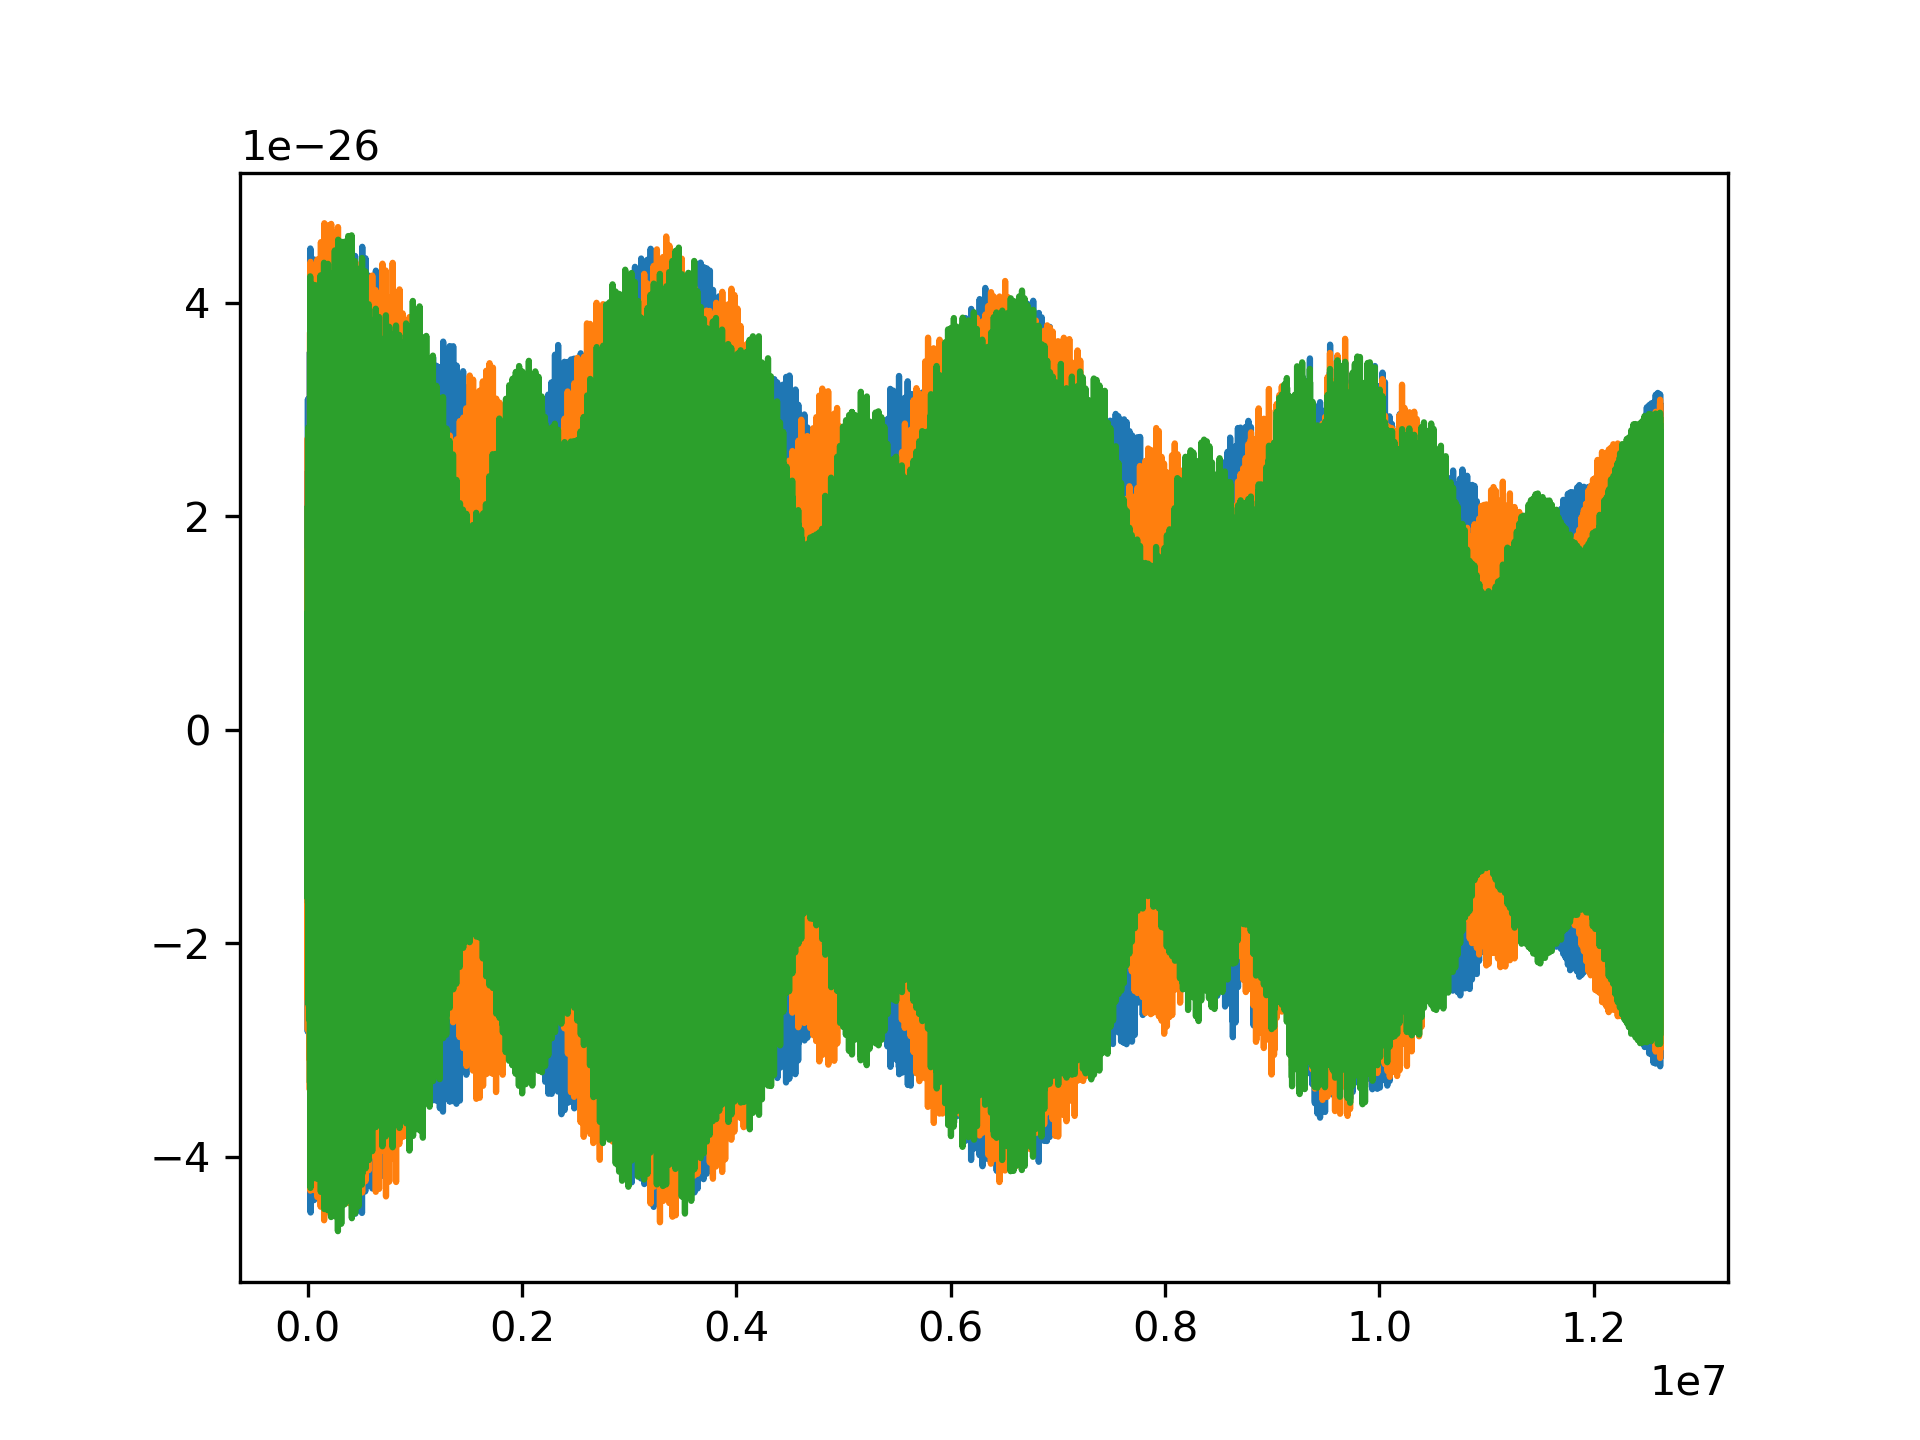
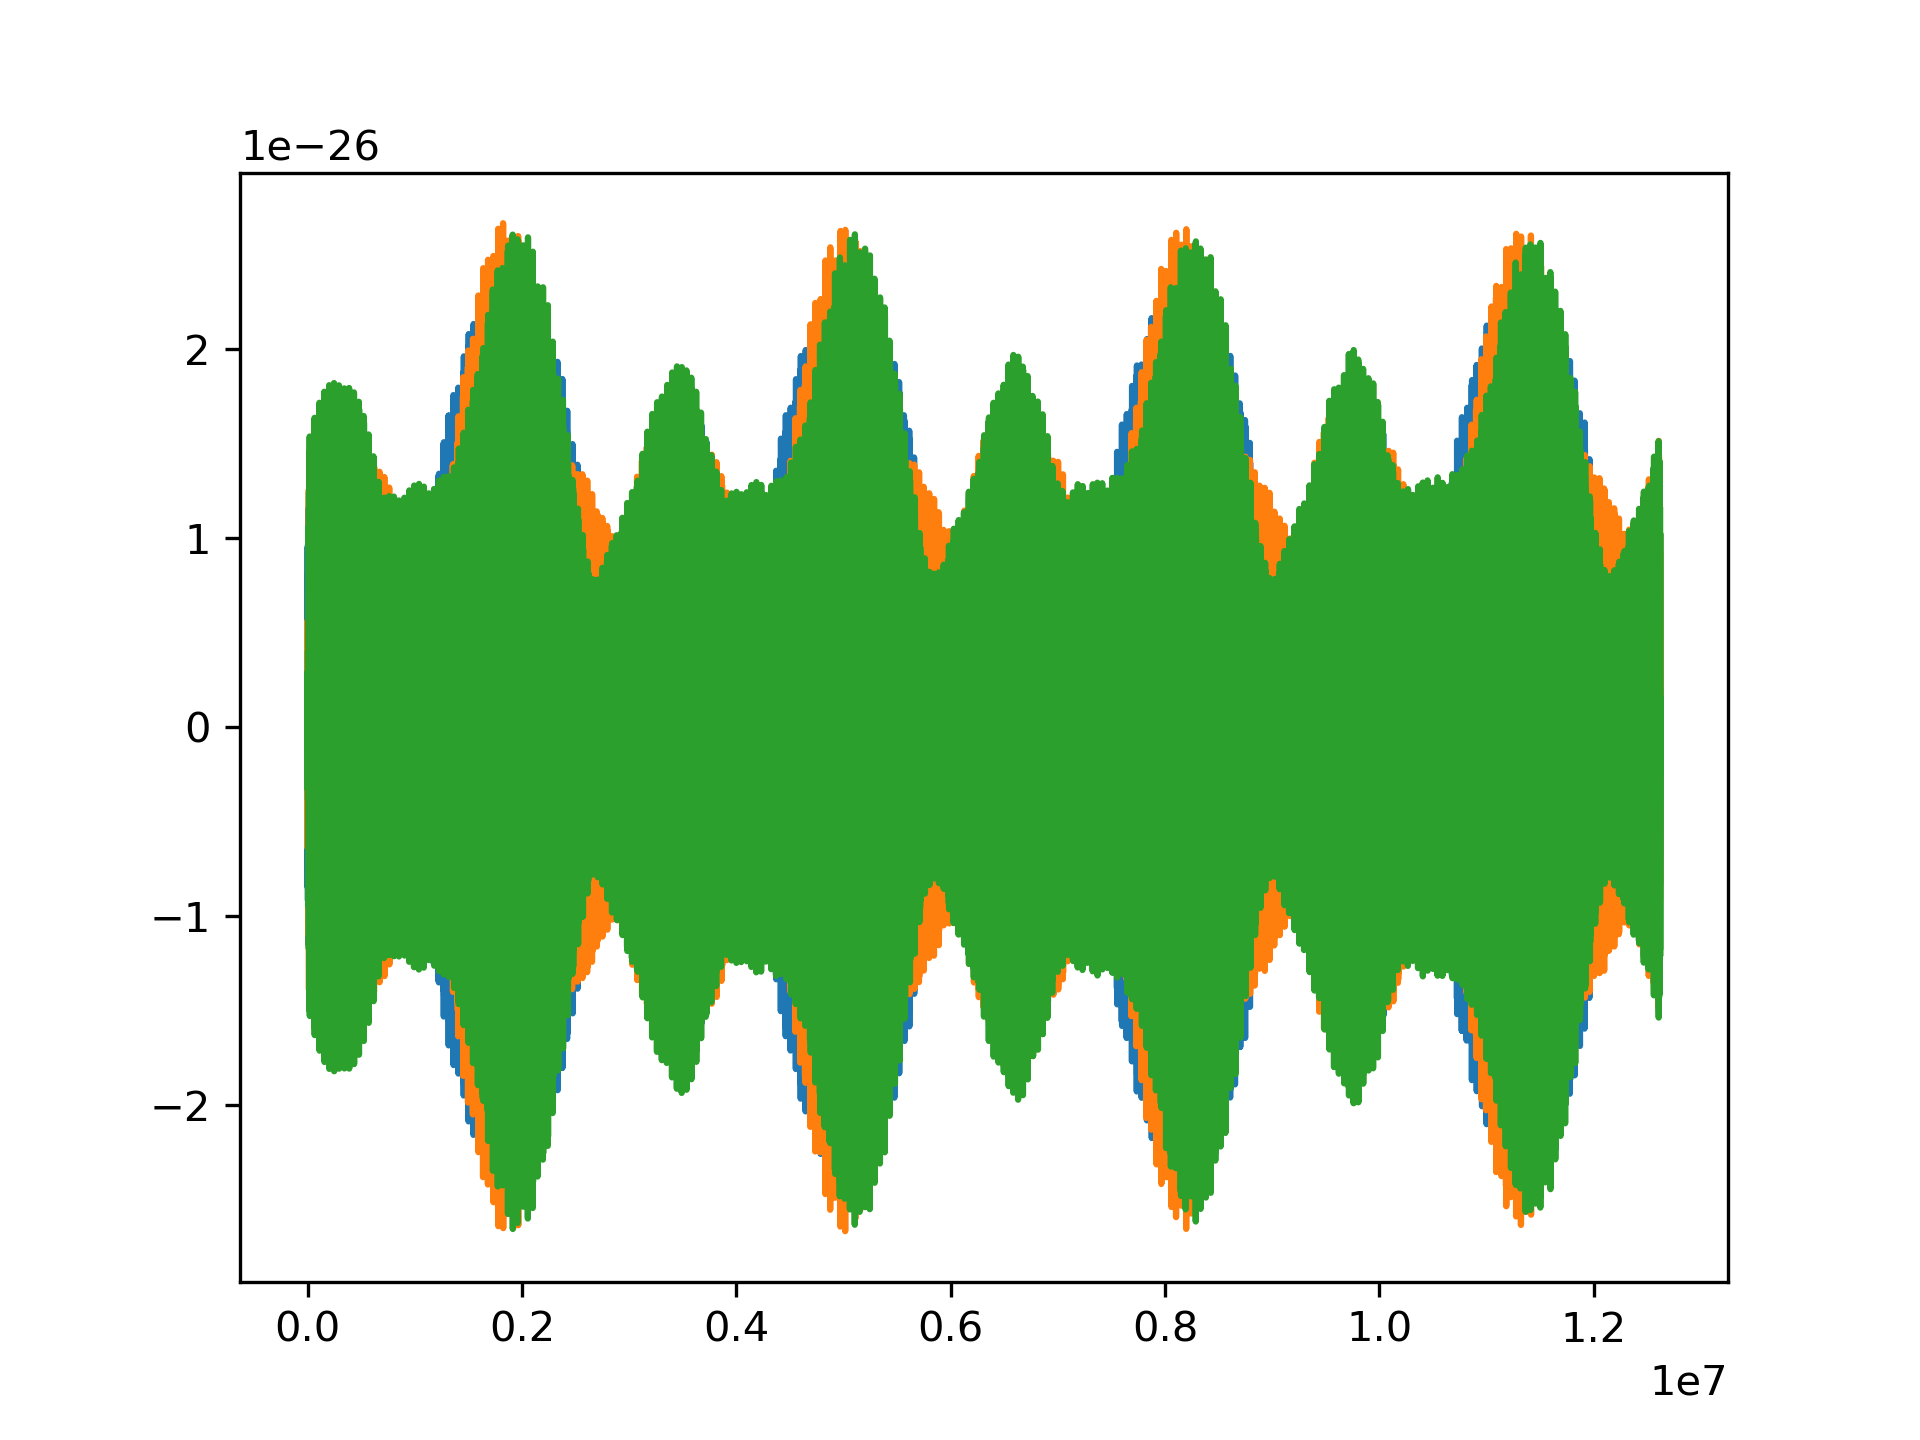
SNR Problem: check scalar product integrants

diff --git a/master_thesis_code/parameter_estimation/parameter_estimation.py b/master_thesis_code/parameter_estimation/parameter_estimation.py
@@ -179,7 +179,7 @@ class ParameterEstimation:
             integrant = cp.divide(cp.multiply(a_fft, b_fft_cc), power_spectral_density)
             fs, integrant = self._crop_frequency_domain(fs, integrant)
 
-            plt.plot(fs, integrant)
+            plt.plot(cp.asnumpy(fs).real, cp.asnumpy(integrant).real)
 
             result += 4 * cp.trapz(y=integrant, x=fs).real
             _LOGGER.debug(f"current scalar product result: {result}")
